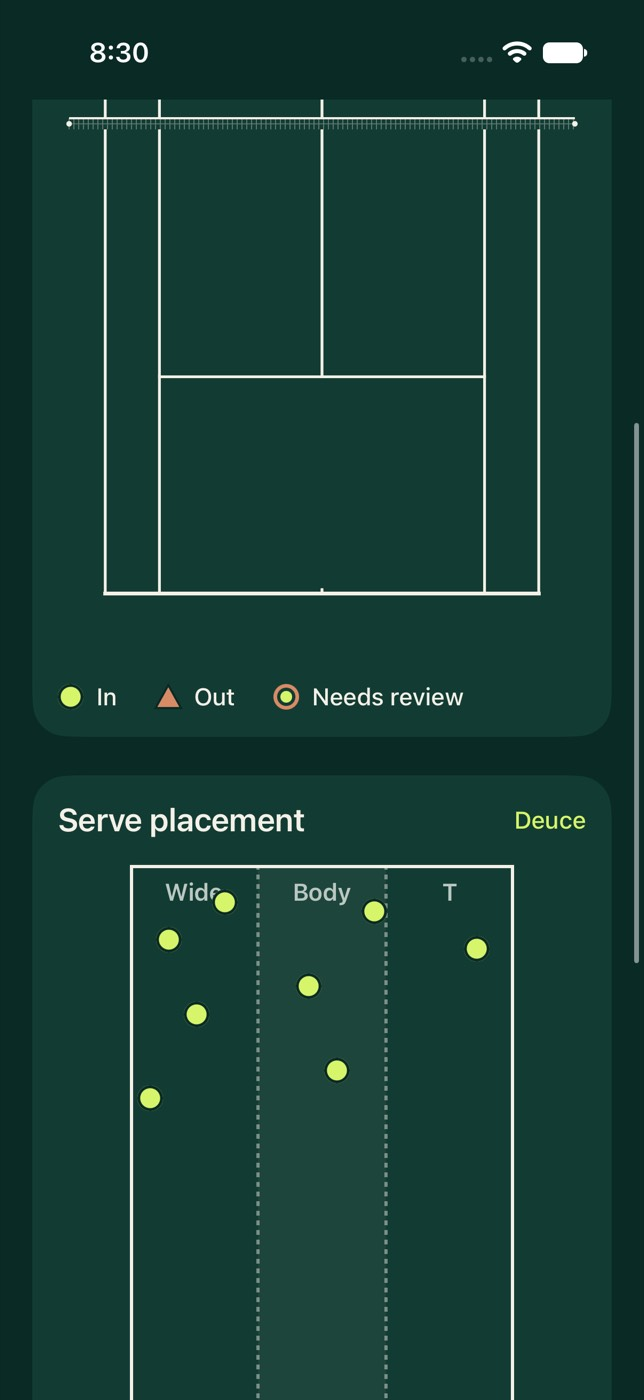
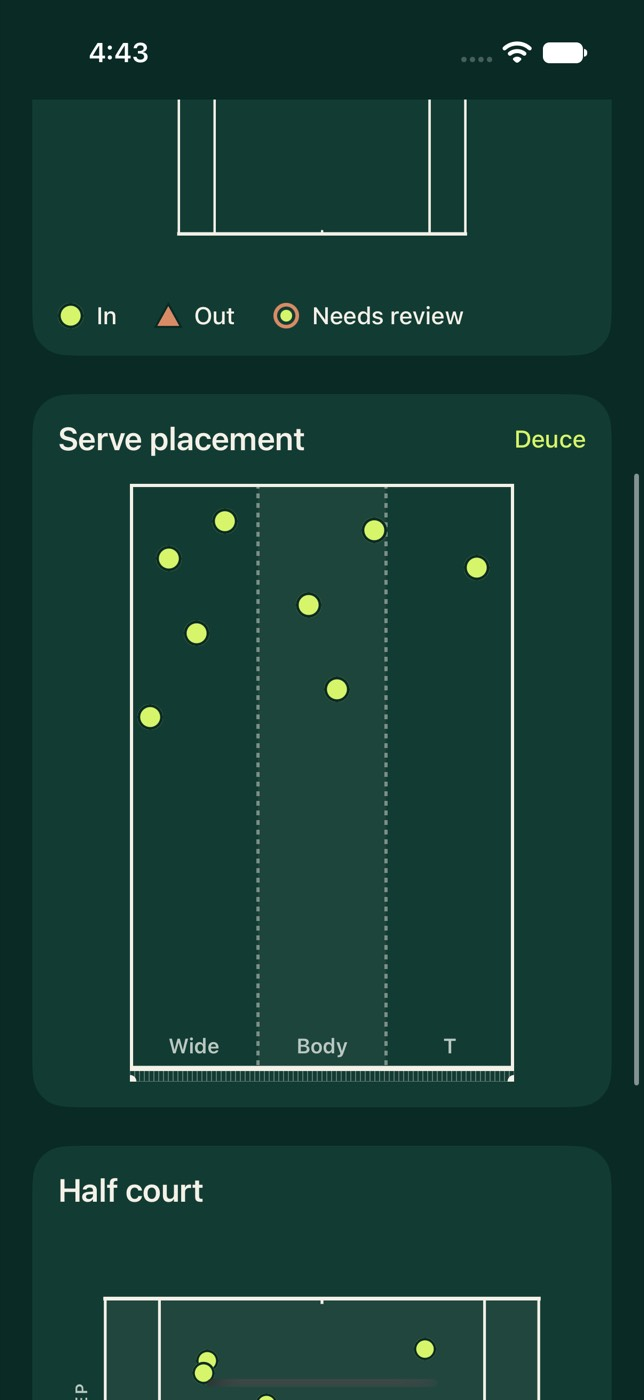
feat(ios): T13 court components polish: loupe stays in frame, zone words are real text
Found by viewing the gallery beside references 05, 11 and 12 and by the
accessibility audit, after merging main.

- Loupe: LoupePlacement puts it 96 pt above the finger when the whole circle
  fits, otherwise beside the finger towards the middle of the frame, always
  inside the frame it magnifies. A far corner near the top edge used to push
  it below the finger and off the frame. Unit tests written first.
- Serve zones: "Wide", "Body" and "T" are real text at the net end of the
  box, clear of where serves land (a marker used to cover "Wide"). VoiceOver
  can reach them and they follow Dynamic Type; at accessibility sizes a word
  reads up its zone. The audit caught both the canvas text and a size cap.
- Legend glyphs scale with the words beside them.
- Gallery: the full court is shown whole in its card with the legend, as on
  the shot map; the in-frame Sample badge no longer covers the far brackets
  at accessibility sizes (the page header carries it).

Evidence refreshed in the same commit: 19 screenshots (light, dark, AX5),
CourtComponentsUITests 5 passed on JOVRA-T13 with the full audit, JovraTests
green, JovraCore green with 65 calibration vectors.

Refs #15

diff --git a/ios/Jovra/DesignSystem/Court/CourtDiagram.swift b/ios/Jovra/DesignSystem/Court/CourtDiagram.swift
@@ -45,6 +45,7 @@ struct CourtDiagram: View {
     var showsBandLabels = true
 
     @Namespace private var rotorSpace
+    @Environment(\.dynamicTypeSize) private var typeSize
 
     private var aspect: CGFloat {
         let probe = CourtDiagramLayout(variant: variant, width: 100)
@@ -56,6 +57,11 @@ struct CourtDiagram: View {
             let layout = CourtDiagramLayout(variant: variant, width: Double(proxy.size.width))
             ZStack(alignment: .topLeading) {
                 CourtSurface(layout: layout, showsLabels: showsBandLabels)
+                if showsBandLabels {
+                    ForEach(layout.zones, id: \.zone) { zone in
+                        zoneLabel(zone)
+                    }
+                }
                 ForEach(placements) { placement in
                     marker(placement, layout: layout)
                 }
@@ -71,6 +77,30 @@ struct CourtDiagram: View {
             }
         }
     }
+
+    /// "Wide", "Body" and "T" as real text, so VoiceOver reads the zones and the words follow Dynamic Type. They
+    /// sit at the net end of the box: serves land towards the service line, so markers never cover the words. At
+    /// accessibility sizes a word is wider than a third of the box, so it reads up the zone from the net instead,
+    /// like the depth labels along the run-off.
+    @ViewBuilder private func zoneLabel(_ zone: CourtDiagramLayout.Zone) -> some View {
+        let midX = zone.origin.x + zone.size.width / 2, netY = zone.origin.y + zone.size.height
+        let word = Text(zone.zone.title)
+            .font(.jovraCaption.weight(.semibold))
+            .foregroundStyle(.jovra(.textSecondaryOnEditorial))
+            .lineLimit(1)
+            .fixedSize()
+            .accessibilityIdentifier("court.zone.\(zone.zone.rawValue)")
+        if typeSize.isAccessibilitySize {
+            word.frame(width: zone.size.height / 2, alignment: .leading)
+                .rotationEffect(.degrees(-90))
+                .position(x: midX, y: netY - Self.zoneLabelInset / 2 - zone.size.height / 4)
+        } else {
+            word.position(x: midX, y: netY - Self.zoneLabelInset)
+        }
+    }
+
+    /// From the net up to the middle of a zone word.
+    static let zoneLabelInset: CGFloat = 22
 
     private func marker(_ placement: CourtPlacement, layout: CourtDiagramLayout) -> some View {
         let placed = layout.place(placement.court)
@@ -100,8 +130,9 @@ struct CourtDiagram: View {
 /// The drawn court: forest surface, depth-band tint, ivory lines, a meshed net with posts. Decorative.
 struct CourtSurface: View {
     var layout: CourtDiagramLayout
-    /// Band ("Deep", "Short") and zone ("T", "Body", "Wide") labels, drawn in the canvas: they scale with the
-    /// court's width like the lines, and VoiceOver reads the diagram's summary and markers instead.
+    /// Band labels ("Deep", "Short"), drawn in the canvas along the run-off: they scale with the court's width
+    /// like the lines, and VoiceOver reads the diagram's summary and markers instead. Zone words are real text
+    /// laid over the surface by `CourtDiagram`.
     var showsLabels = true
 
     var body: some View {
@@ -151,10 +182,6 @@ struct CourtSurface: View {
             rotated.translateBy(x: runOff / 2, y: band.origin.y + band.size.height / 2)
             rotated.rotate(by: .degrees(-90))
             rotated.draw(text, at: .zero, anchor: .center)
-        }
-        for zone in layout.zones {
-            let text = context.resolve(Text(zone.zone.title).font(.system(size: size + 2, weight: .semibold)).foregroundStyle(ink))
-            context.draw(text, at: CGPoint(x: zone.origin.x + zone.size.width / 2, y: zone.origin.y + size + 4), anchor: .center)
         }
     }
 

diff --git a/ios/JovraTests/DesignSystem/LoupePlacementTests.swift b/ios/JovraTests/DesignSystem/LoupePlacementTests.swift
@@ -1,0 +1,49 @@
+import CoreGraphics
+import Testing
+@testable import Jovra
+
+/// T13, story 63: the 2x loupe shows the corner the finger covers, so it must stay inside the frame it magnifies
+/// and never sit on the finger. Expected positions are worked by hand from the 112 pt diameter and 96 pt lift.
+@Suite("Loupe placement")
+struct LoupePlacementTests {
+    @Test("with room above, the loupe sits 96 pt above the finger")
+    func above() {
+        let centre = LoupePlacement.centre(touch: CGPoint(x: 200, y: 300), in: CGSize(width: 400, height: 600), diameter: 112)
+        #expect(centre == CGPoint(x: 200, y: 204))
+    }
+
+    @Test("near a side edge it slides in so the whole circle shows")
+    func slidesInFromTheSide() {
+        let centre = LoupePlacement.centre(touch: CGPoint(x: 10, y: 300), in: CGSize(width: 400, height: 600), diameter: 112)
+        #expect(centre == CGPoint(x: 56, y: 204))
+    }
+
+    @Test("with no room above it moves beside the finger, towards the middle of the frame, never below it")
+    func besideWhenThereIsNoRoomAbove() {
+        let frame = CGSize(width: 400, height: 225)
+        // A far corner near the top of a 16:9 frame: 40 - 96 leaves no room for a 56 pt radius.
+        #expect(LoupePlacement.centre(touch: CGPoint(x: 300, y: 40), in: frame, diameter: 112) == CGPoint(x: 204, y: 56))
+        #expect(LoupePlacement.centre(touch: CGPoint(x: 60, y: 40), in: frame, diameter: 112) == CGPoint(x: 156, y: 56))
+    }
+
+    @Test("everywhere in a phone-width 16:9 frame the loupe is whole and clear of the finger")
+    func alwaysInsideAndClearOfTheFinger() {
+        let frame = CGSize(width: 330, height: 186), radius: CGFloat = 56
+        for x in stride(from: CGFloat(0), through: frame.width, by: 10) {
+            for y in stride(from: CGFloat(0), through: frame.height, by: 6) {
+                let touch = CGPoint(x: x, y: y)
+                let centre = LoupePlacement.centre(touch: touch, in: frame, diameter: radius * 2)
+                #expect(centre.x >= radius && centre.x <= frame.width - radius, "x at \(touch)")
+                #expect(centre.y >= radius && centre.y <= frame.height - radius, "y at \(touch)")
+                let distance = ((centre.x - touch.x) * (centre.x - touch.x) + (centre.y - touch.y) * (centre.y - touch.y)).squareRoot()
+                #expect(distance >= radius, "the loupe covers the finger at \(touch)")
+            }
+        }
+    }
+
+    @Test("a frame smaller than the loupe centres it instead of trapping")
+    func tinyFrame() {
+        let centre = LoupePlacement.centre(touch: CGPoint(x: 20, y: 20), in: CGSize(width: 80, height: 60), diameter: 112)
+        #expect(centre == CGPoint(x: 40, y: 30))
+    }
+}

diff --git a/ios/Jovra/DesignSystem/Court/CourtGallery.swift b/ios/Jovra/DesignSystem/Court/CourtGallery.swift
@@ -23,6 +23,9 @@ struct CourtGallery: View {
         case guideLoupe = "guide-loupe"
     }
 
+    /// Tall enough to read a to-scale court (2.17 times longer than wide) and short enough to keep it on one screen.
+    static let fullCourtHeight: CGFloat = 440
+
     var scenario: Scenario
     @State private var corners: [VideoPixel] = SyntheticCourtFrame.trueCorners
     @State private var deuce = true
@@ -85,6 +88,9 @@ struct CourtGallery: View {
                 }
                 CourtDiagram(variant: .full, placements: SamplePlacements.forehands,
                              summary: "Forehand placements, sample, 15 placed: 9 deep, 2 short, 3 out, 1 needs review")
+                    // As on the shot map (S11): the whole court, both baselines, sits in the card with its legend.
+                    .frame(height: Self.fullCourtHeight)
+                    .frame(maxWidth: .infinity)
                     .accessibilityIdentifier("court.diagram.full")
                 CourtMarkerLegend()
             }
@@ -174,7 +180,10 @@ struct CourtGallery: View {
             .aspectRatio(16 / 9, contentMode: .fit)
             .background(Color.jovra(.editorial))
             .clipShape(RoundedRectangle(cornerRadius: Radius.control, style: .continuous))
-            .overlay(alignment: .topTrailing) { SampleBadge(size: .small, onForest: true).padding(Space.x1) }
+            // At accessibility sizes the badge would cover the far brackets; the page header carries it instead.
+            .overlay(alignment: .topTrailing) {
+                if !typeSize.isAccessibilitySize { SampleBadge(size: .small, onForest: true).padding(Space.x1) }
+            }
             .accessibilityIdentifier("court.guide")
             VStack(alignment: .leading, spacing: Space.half) {
                 Text(check.verdict == .poor ? "Check the corners" : "All four corners visible")
@@ -185,7 +194,7 @@ struct CourtGallery: View {
                     .font(.jovraBody)
                     .foregroundStyle(.jovra(.textSecondary))
                     .fixedSize(horizontal: false, vertical: true)
-                Text(String(format: "Untapped lines: %.1f px RMSE (limit %.0f px at 1080p)", check.rmsePx ?? 0, check.thresholdPx))
+                Text(String(format: "Untapped lines: %.1f px RMSE, limit %.0f px", check.rmsePx ?? 0, check.thresholdPx))
                     .font(.jovraTimecode)
                     .foregroundStyle(.jovra(check.verdict == .poor ? .attentionInk : .positiveInk))
                     .fixedSize(horizontal: false, vertical: true)

diff --git a/ios/Jovra/DesignSystem/Court/PerspectiveCourtGuide.swift b/ios/Jovra/DesignSystem/Court/PerspectiveCourtGuide.swift
@@ -24,6 +24,7 @@ struct PerspectiveCourtGuide<Background: View>: View {
     @Environment(\.accessibilityReduceMotion) private var reduceMotion
 
     static var lineOpacity: Double { 0.7 }
+    static var loupeDiameter: CGFloat { 112 }
 
     private var calibration: Homography? {
         guard corners.count == 4 else { return nil }
@@ -46,7 +47,7 @@ struct PerspectiveCourtGuide<Background: View>: View {
                     handle(index, corner: corner, mapping: mapping)
                 }
                 if let touch = touch ?? pinnedTouch(mapping) {
-                    Loupe(center: touch, contentSize: proxy.size) {
+                    Loupe(center: touch, contentSize: proxy.size, diameter: Self.loupeDiameter) {
                         ZStack(alignment: .topLeading) {
                             background()
                             if let calibration {
@@ -55,7 +56,7 @@ struct PerspectiveCourtGuide<Background: View>: View {
                             }
                         }
                     }
-                    .position(x: touch.x, y: touch.y - 96 >= 60 ? touch.y - 96 : touch.y + 96)
+                    .position(LoupePlacement.centre(touch: touch, in: proxy.size, diameter: Self.loupeDiameter))
                     .transition(Motion.transition(edge: .bottom, reduceMotion: reduceMotion))
                 }
             }

diff --git a/ios/Jovra/DesignSystem/Court/CornerHandle.swift b/ios/Jovra/DesignSystem/Court/CornerHandle.swift
@@ -102,6 +102,26 @@ struct Loupe<Content: View>: View {
     }
 }
 
+/// Where the loupe goes for a touch: 96 pt above the finger when the whole circle fits there, otherwise beside the
+/// finger towards the middle of the frame (never below it, where the hand is). It always stays inside the frame it
+/// magnifies, so a far corner near the top edge is still shown whole.
+enum LoupePlacement {
+    /// Centre-to-finger distance: clear of a fingertip and of the 44 pt bracket target.
+    static let lift: CGFloat = 96
+
+    static func centre(touch: CGPoint, in container: CGSize, diameter: CGFloat) -> CGPoint {
+        let radius = diameter / 2
+        func inside(_ value: CGFloat, _ extent: CGFloat) -> CGFloat {
+            extent < diameter ? extent / 2 : min(max(value, radius), extent - radius)
+        }
+        if touch.y - lift >= radius || container.width < diameter {
+            return CGPoint(x: inside(touch.x, container.width), y: inside(touch.y - lift, container.height))
+        }
+        let towardsMiddle: CGFloat = touch.x > container.width / 2 ? -lift : lift
+        return CGPoint(x: inside(touch.x + towardsMiddle, container.width), y: inside(touch.y, container.height))
+    }
+}
+
 extension CourtIntersection {
     /// "Near left corner bracket", the VoiceOver name of a corner handle (S05).
     var bracketName: String {

diff --git a/ios/Jovra/DesignSystem/Court/CourtMarker.swift b/ios/Jovra/DesignSystem/Court/CourtMarker.swift
@@ -91,6 +91,8 @@ struct CourtMarkerLegend: View {
     /// Legend text sits on the forest court card by default.
     var onCourtCard = true
     @Environment(\.dynamicTypeSize) private var typeSize
+    /// The shapes grow with the words beside them, so a legend read at an accessibility size keeps its glyphs legible.
+    @ScaledMetric(relativeTo: .subheadline) private var glyph: CGFloat = 16
 
     var body: some View {
         // One row as in the reference; stacked once the words no longer fit beside each other.
@@ -108,7 +110,7 @@ struct CourtMarkerLegend: View {
     @ViewBuilder private var items: some View {
         ForEach(kinds) { kind in
             HStack(spacing: Space.x1) {
-                CourtMarker(kind: kind, size: 16)
+                CourtMarker(kind: kind, size: glyph)
                 Text(kind.title)
                     .font(.jovraLabel)
                     .foregroundStyle(.jovra(onCourtCard ? .textOnEditorial : .textPrimary))

diff --git a/ios/JovraUITests/Components/CourtComponentsUITests.swift b/ios/JovraUITests/Components/CourtComponentsUITests.swift
@@ -50,6 +50,10 @@ final class CourtComponentsUITests: XCTestCase {
         XCTAssertEqual(diagram.label, "Forehand placements, sample, 15 placed: 9 deep, 2 short, 3 out, 1 needs review")
         let legend = app.descendants(matching: .any)["court.legend"].firstMatch
         XCTAssertEqual(legend.label, "Legend: filled circle, In, triangle, Out, and ring, Needs review")
+        // The serve zones are words VoiceOver can reach, not pixels in a drawing.
+        for (zone, word) in [("wide", "Wide"), ("body", "Body"), ("t", "T")] {
+            XCTAssertEqual(app.staticTexts["court.zone.\(zone)"].firstMatch.label, word)
+        }
     }
 
     @MainActor

diff --git a/evidence/ios/13-court-calibration-diagrams/README.md b/evidence/ios/13-court-calibration-diagrams/README.md
@@ -1,26 +1,42 @@
 # T13 evidence: court geometry, 4-tap calibration maths and the court diagram components
 
 Branch `ticket/t13-court-calibration-diagrams`, simulator `JOVRA-T13` (iPhone 17 Pro, iOS Simulator 27.2,
-`EC62AF47-253F-497F-B735-233029F969BA`). No physical device was used.
+`EC62AF47-253F-497F-B735-233029F969BA`). No physical device was used. The files were refreshed on 2026-11-09 after
+merging `origin/main` at `1d41080`.
 
 | File | What it shows |
 |---|---|
 | `01-core-red-before-court-module.txt` | The calibration conformance runner failing to compile before `JovraCore/Court` existed (red) |
-| `02-core-green.txt` | `swift test` for JovraCore on macOS: 9 calibration fixtures (58 vectors, 16 fits) and the Court suites green |
+| `02-core-green.txt` | `swift test` for JovraCore on macOS: 9 calibration fixtures (65 vectors, 16 fits) and the Court suites green |
 | `03-core-mutation-centre-line-caught.txt` | A centre service line drawn baseline to baseline fails both the layout test and the C08 geometry fixture |
-| `04-benchmark-court-calibration.txt` | The `courtCalibration` benchmark record: RMSE, on-court error, per-intersection breakdown, Python re-score |
-| `05-ui-tests.txt` | `CourtComponentsUITests` on JOVRA-T13: 5 passed (accessibility audit in light, dark and AX5) |
+| `04-benchmark-court-calibration.txt` | Both `courtCalibration` benchmark records: error by court half, per-intersection table, metres per pixel, Python re-score |
+| `05-ui-tests.txt` | `CourtComponentsUITests` on JOVRA-T13 (accessibility audit in light, dark and AX5), `LoupePlacementTests` and the whole `JovraTests` target |
+| `06-core-reopen-mutation-caught.txt` | Ignoring a reopened record's stored status fails both the C05 fixture and `CourtCalibrationTests` |
 | `t13-{light,dark,ax5}-{diagrams,markers,guide}.jpg` | Gallery screenshots; `diagrams-2/-3` scroll to the legend, service-box and half-court variants |
 | `t13-light-markers-read-aloud.jpg` | The five marker shapes and the placement words VoiceOver reads |
-| `t13-light-guide-dragged-poor.jpg`, `t13-dark-guide-poor.jpg`, `t13-light-guide-loupe.jpg` | The framing guide after a bracket is dragged off (poor fit), a far corner 11 px off, and the 2x loupe |
+| `t13-light-guide-dragged-poor.jpg`, `t13-dark-guide-poor.jpg`, `t13-light-guide-loupe.jpg` | The framing guide after a bracket is dragged off (poor fit), a far corner 11 px off, and the 2x loupe kept inside the frame |
 
 All gallery data is synthetic and badged Sample. The framing guide's background is a vector drawing of the
 renderer's behind-baseline camera at 1080p (the synthetic calibrated frame of `spec/fixtures/calibration`), not footage.
 
-## The 0.10 m acceptance claim (measured, not met as written)
+## The 0.10 m acceptance criterion: not met as written
 
-With the four doubles corners tapped up to 2 px off at 1080p, untapped intersections on the near half and at the
-net side of the far service line stay within 0.06 m, but points on the far baseline reach 0.17 m: on this camera one
-pixel spans about 0.10 m of depth at the far baseline (`spec/fixtures/calibration/C03-jittered-corners.json`: 5 of its 6 seeded
-draws put at least one far point beyond 0.10 m; the benchmark's 32 draws give 92.19% of untapped intersections within 0.10 m, RMSE 51 mm). The fixture
-and the record state this per point; nothing hides it.
+The criterion reads "projecting the untapped line intersections with corners jittered by up to 2 px lands within
+0.10 m of truth on court". Measured over 32 seeded draws on the two held-out serve clips
+(`spec/benchmarks/court-calibration/`):
+
+| Untapped intersections | Within 0.10 m | Median | Worst |
+|---|---|---|---|
+| Near half (6 points) | 192 of 192 | 0.019 m | 0.058 m |
+| Far half (6 points) | 162 of 192 (84.38%) | 0.048 m | 0.173 m |
+| All 12 | 354 of 384 (92.19%) | | 0.173 m |
+
+On this camera one pixel spans 0.018 m of depth at the near baseline and 0.102 m at the far baseline. A far corner
+tapped 2 px off is itself 0.20 m off on court, so no fit of four taps can keep the untapped far-baseline points
+within 0.10 m; the taps would have to be within about 1 px. The six draws of
+`spec/fixtures/calibration/C03-jittered-corners.json` show the same per point (`errorM`, `withinTenCm`).
+
+The research gate the criterion paraphrases (`docs/research/technical-feasibility.md` section 8, and row 8 of its
+summary table) bounds the near half at 0.10 m and has the far half reported separately. That shape passes on the
+synthetic frame and is recorded as `fourTap.nearHalf.gate.json`. It is a synthetic-frame result, not the 20-court gate.
+The ticket's literal claim is recorded as failing in `fourTap.gate.json`. Neither record names a capability.
